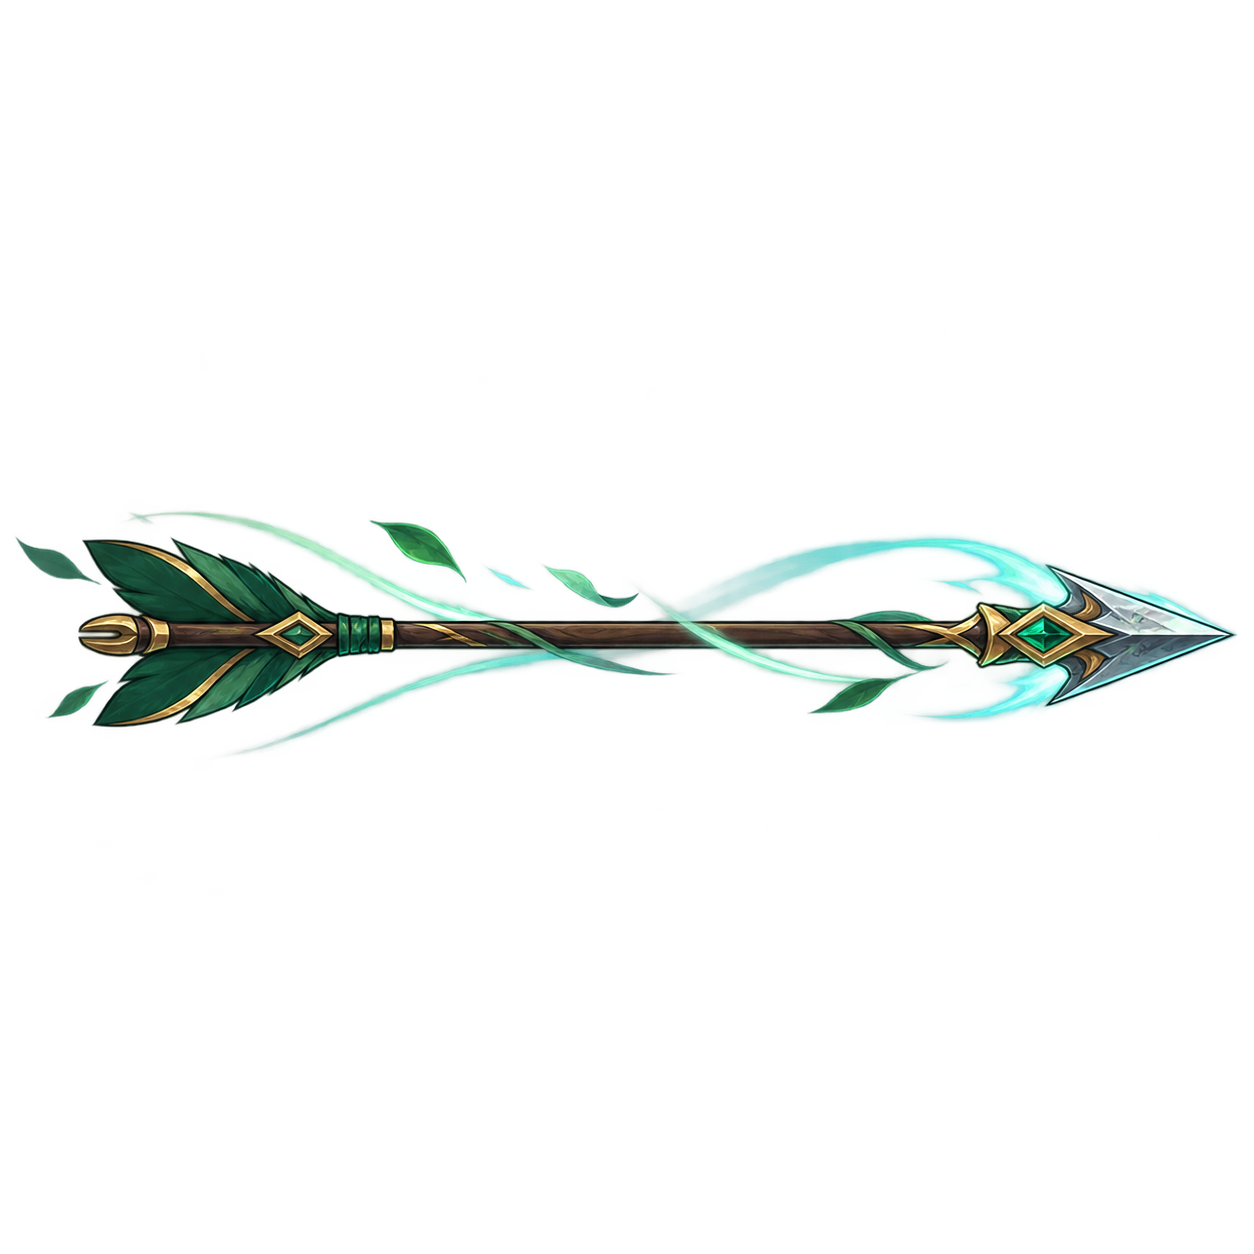
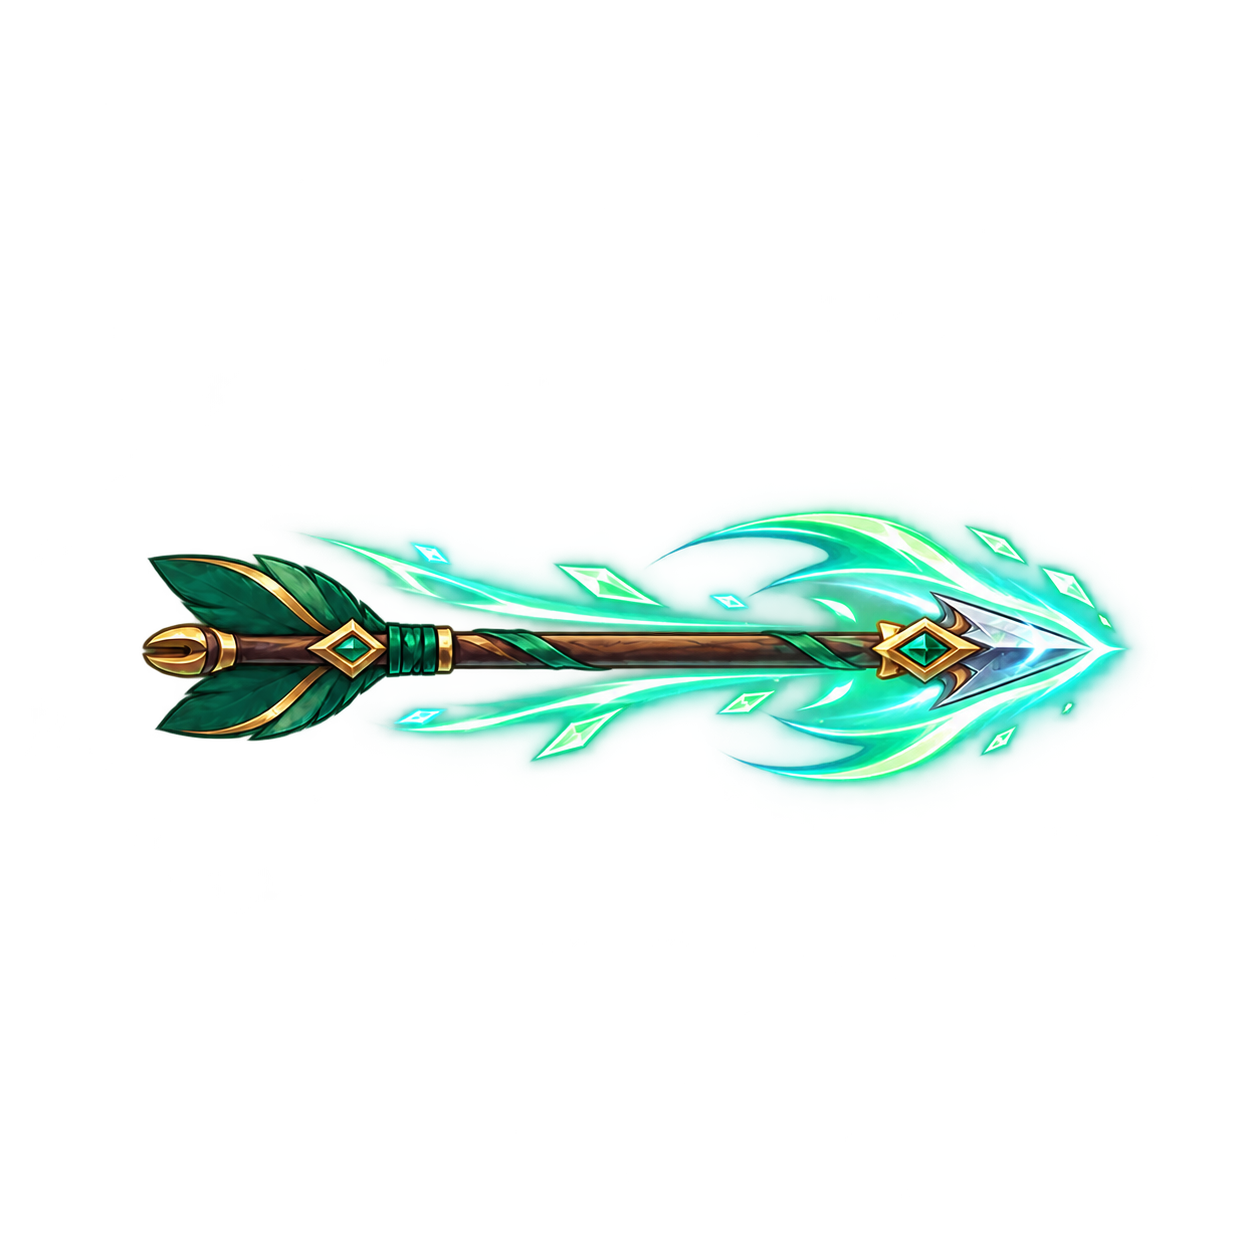
feat(battle): refresh ranger projectile VFX

Changed region(s): [[0.0, 0.4043, 0.9952, 0.6531]]

diff --git a/mobile/lib/features/match/battle/combat_effects_overlay.dart b/mobile/lib/features/match/battle/combat_effects_overlay.dart
@@ -245,14 +245,17 @@ class CombatEffectsOverlay extends StatelessWidget {
 
     // Sized against the measured tile rather than a fixed pixel count, so
     // the projectile keeps the same visual weight on a phone and a tablet.
-    final projectileSize =
-        (_tileSize(attackerSide == mySide ? myBoardKey : opponentBoardKey) ??
-                60) *
-            0.82;
     final effectKind = combatEffectForEvent(event);
     if (effectKind == null || effectKind == CombatEffectKind.healerHeal) {
       return null;
     }
+    final tileSize =
+        _tileSize(attackerSide == mySide ? myBoardKey : opponentBoardKey) ?? 60;
+    // The ranger asset is an elongated arrow, so it needs a smaller square
+    // than the healer's compact orb. Giving both the same 82% tile box made
+    // the arrow read as a slow spear that covered most of a unit.
+    final projectileSize = tileSize *
+        (effectKind == CombatEffectKind.rangerProjectile ? 0.72 : 0.82);
     final direction = targetLocal - attackerLocal;
     final angle = math.atan2(direction.dy, direction.dx);
 
